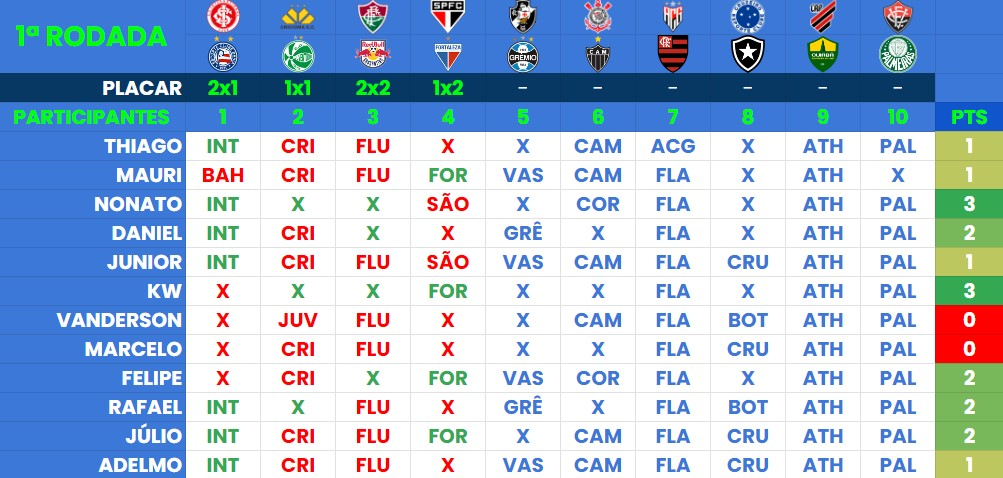
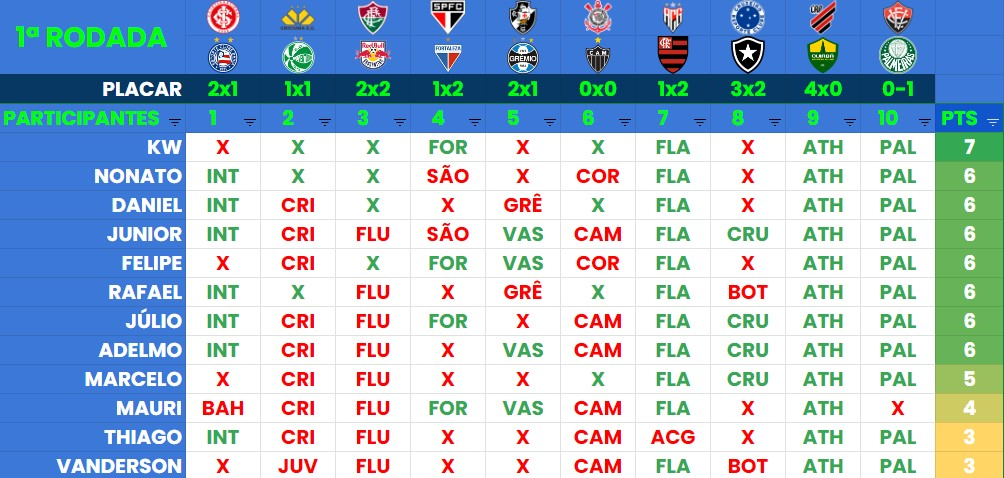
u

Changed region(s): [[0.0, 0.0, 1.0, 1.0]]

diff --git a/index.html b/index.html
@@ -51,10 +51,10 @@
           <img src="./assets/Round1.jpg" alt="Logo do Campeonato Brasileiro 2022" />
         </div>
         <div class="text">
-          <h2 class="title"><a href="./pred.html">MERCADO FECHADO!</a>
+          <h2 class="title"><a href="./pred.html">KW VENCE A RODADA 1</a>
           </h2>
           <p>
-            Bola rolando para a 1ª Rodada
+            Tricolor faz 7 pontos e começa bem o bolão
           </p>
           <a class="button" href="./predictor.html">Resumo dos palpites</a>
         </div>
@@ -151,7 +151,7 @@
           <h2 class="titleInfo">Classificação do Brasileiro 2024</h2>
         </header>
         <div class="rounds">
-          <iframe id="sofa-standings-embed-83-58766" src="https://widgets.sofascore.com/embed/tournament/83/season/58766/standings/Brasileiro%20Serie%20A%202024?widgetTitle=Brasileiro%20Serie%20A%202024&showCompetitionLogo=true&v=2" style=height:1031px!important;max-width:768px!important;width:100%!important; frameborder="0" scrolling="no"></iframe>
+          <iframe id="sofa-standings-embed-83-58766" src="https://widgets.sofascore.com/embed/tournament/83/season/58766/standings/Brasileiro%20Serie%20A?widgetTitle=Brasileiro%20Serie%20A&showCompetitionLogo=true&v=2" style=height:1031px!important;max-width:768px!important;width:100%!important; frameborder="0" scrolling="no"></iframe>
     <div style="font-size:12px;font-family:Arial,sans-serif;text-align:left">
       Standings provided by <a target="_blank" href="https://www.sofascore.com/">Sofascore</a>
     </div>
@@ -172,165 +172,125 @@
         <h3>Classificação dos jogadores</h3>
         <div class="list">
           <div class="imgBx">
-            <img src="./assets/fotos/daniel.png">
+            <img src="./assets/fotos/fortaleza.png">
           </div>
           <div class="content">
             <h2 class="rank"><small>#</small>1</h2>
-            <h4>Daniel Jr.</h4>
-            <p>0 Pontos</p>
+            <h4>KW</h4>
+            <p>7 Pontos</p>
           </div>
         </div>
         <div class="list">
           <div class="imgBx">
-            <img src="./assets/fotos/thiago.png">
+            <img src="./assets/fotos/ceará.png">
           </div>
           <div class="content">
             <h2 class="rank"><small>#</small>2</h2>
-            <h4>Thiago</h4>
-            <p>0 Pontos</p>
+            <h4>Nonato</h4>
+            <p>6 Pontos</p>
           </div>
         </div>
-        <!-- <div class="list">
+        <div class="list">
           <div class="imgBx">
-            <img src="./assets/fotos/rouger.png">
+            <img src="./assets/fotos/corinthians.png">
           </div>
           <div class="content">
             <h2 class="rank"><small>#</small>3</h2>
-            <h4>Rouger</h4>
-            <p>178 Pontos</p>
+            <h4>Daniel</h4>
+            <p>6 Pontos</p>
           </div>
-        </div> -->
+        </div>
         <div class="list">
           <div class="imgBx">
-            <img src="./assets/fotos/julio.png">
+            <img src="./assets/fotos/bahia.png">
           </div>
           <div class="content">
             <h2 class="rank"><small>#</small>4</h2>
-            <h4>Júlio</h4>
-            <p>0 Pontos</p>
+            <h4>Júnior</h4>
+            <p>6 Pontos</p>
           </div>
         </div>
-        <!-- <div class="list">
+        <div class="list">
           <div class="imgBx">
-            <img src="./assets/fotos/railton.png">
+            <img src="./assets/fotos/santos.png">
+          </div>
+          <div class="content">
+            <h2 class="rank"><small>#</small>5</h2>
+            <h4>Felipe</h4>
+            <p>6 Pontos</p>
+          </div>
+        </div>
+        <div class="list">
+          <div class="imgBx">
+            <img src="./assets/fotos/palmeiras.png">
           </div>
           <div class="content">
             <h2 class="rank"><small>#</small>6</h2>
-            <h4>Railton</h4>
-            <p>176 Pontos</p>
+            <h4>Rafael</h4>
+            <p>6 Pontos</p>
           </div>
-        </div> -->
-        <!-- <div class="list">
+        </div>
+        <div class="list">
           <div class="imgBx">
-            <img src="./assets/fotos/adelmo.png">
+            <img src="./assets/fotos/fortaleza.png">
           </div>
           <div class="content">
             <h2 class="rank"><small>#</small>7</h2>
-            <h4>Adelmo</h4>
-            <p>0 Pontos</p>
+            <h4>Júlio</h4>
+            <p>6 Pontos</p>
           </div>
-        </div> -->
+        </div>
         <div class="list">
           <div class="imgBx">
-            <img src="./assets/fotos/felipe.png">
+            <img src="./assets/fotos/santacruz.png">
           </div>
           <div class="content">
             <h2 class="rank"><small>#</small>8</h2>
-            <h4>Felipe Almeida</h4>
-            <p>0 Pontos</p>
+            <h4>Adelmo</h4>
+            <p>6 Pontos</p>
           </div>
         </div>
-        <!-- <div class="list">
+        <div class="list">
           <div class="imgBx">
-            <img src="./assets/fotos/kw.png">
+            <img src="./assets/fotos/palmeiras.png">
           </div>
           <div class="content">
             <h2 class="rank"><small>#</small>9</h2>
-            <h4>KW Alves</h4>
-            <p>171 Pontos</p>
+            <h4>Marcelo</h4>
+            <p>5 Pontos</p>
           </div>
-        </div> -->
+        </div>
         <div class="list">
           <div class="imgBx">
-            <img src="./assets/fotos/vanderson.png">
+            <img src="./assets/fotos/fortaleza.png">
           </div>
           <div class="content">
             <h2 class="rank"><small>#</small>10</h2>
-            <h4>Vanderson</h4>
-            <p>0 Pontos</p>
+            <h4>Mauri</h4>
+            <p>5 Pontos</p>
           </div>
         </div>
         <div class="list">
           <div class="imgBx">
-            <img src="./assets/fotos/rafael.png">
+            <img src="./assets/fotos/ceará.png">
           </div>
           <div class="content">
             <h2 class="rank"><small>#</small>11</h2>
-            <h4>Rafael</h4>
-            <p>0 Pontos</p>
+            <h4>Thiago</h4>
+            <p>3 Pontos</p>
           </div>
         </div>
-        <!-- <div class="list">
+        <div class="list">
           <div class="imgBx">
-            <img src="./assets/fotos/igor.png">
+            <img src="./assets/fotos/fortaleza.png">
           </div>
           <div class="content">
             <h2 class="rank"><small>#</small>12</h2>
-            <h4>Igor</h4>
-            <p>169 Pontos</p>
-          </div>
-        </div> -->
-        <!-- <div class="list">
-          <div class="imgBx">
-            <img src="./assets/fotos/brunotome.png">
-          </div>
-          <div class="content">
-            <h2 class="rank"><small>#</small>13</h2>
-            <h4>Bruno Thomé</h4>
-            <p>168 Pontos</p>
-          </div>
-        </div> -->
-        <div class="list">
-          <div class="imgBx">
-            <img src="./assets/fotos/evaldo.png">
-          </div>
-          <div class="content">
-            <h2 class="rank"><small>#</small>14</h2>
-            <h4>Evaldo</h4>
-            <p>0 Pontos</p>
+            <h4>Vanderson</h4>
+            <p>3 Pontos</p>
           </div>
         </div>
-        <div class="list">
-          <div class="imgBx">
-            <img src="./assets/fotos/marcelo.png">
-          </div>
-          <div class="content">
-            <h2 class="rank"><small>#</small>16</h2>
-            <h4>Marcelo</h4>
-            <p>0 Pontos</p>
-          </div>
-        </div>
-        <!-- <div class="list">
-          <div class="imgBx">
-            <img src="./assets/fotos/felipesousa.png">
-          </div>
-          <div class="content">
-            <h2 class="rank"><small>#</small>17</h2>
-            <h4>Felipe Sousa</h4>
-            <p>159 Pontos</p>
-          </div>
-        </div> -->
-        <!-- <div class="list">
-          <div class="imgBx">
-            <img src="./assets/fotos/nonato.png">
-          </div>
-          <div class="content">
-            <h2 class="rank"><small>#</small>18</h2>
-            <h4>Nonato</h4>
-            <p>158 Pontos</p>
-          </div>
-        </div>
-      </div> -->
+      </div>
     </section>
     <!-- CONTACT -->
     <section class="section" id="contact">
